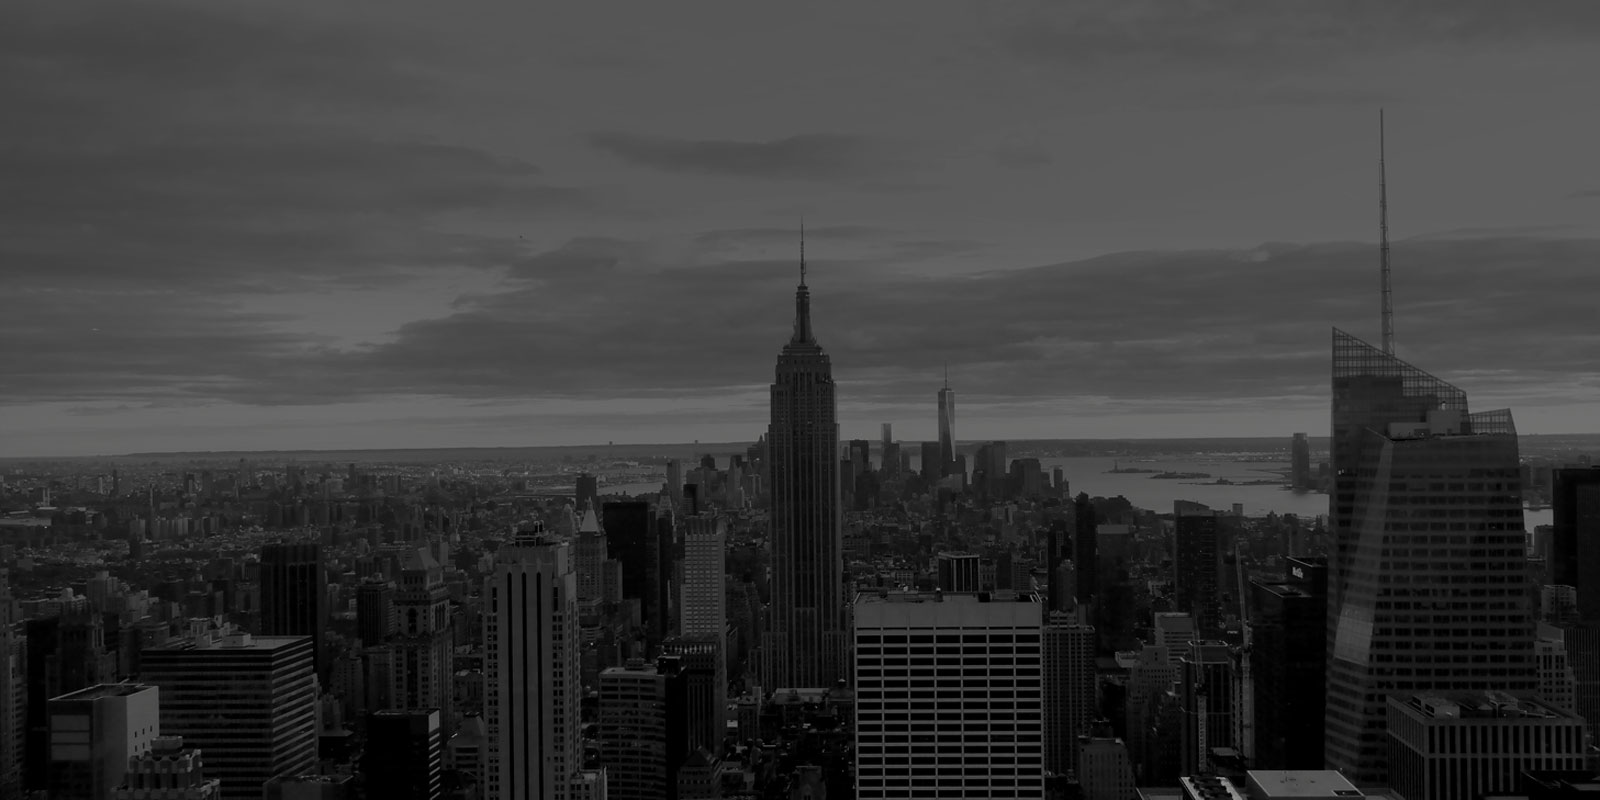
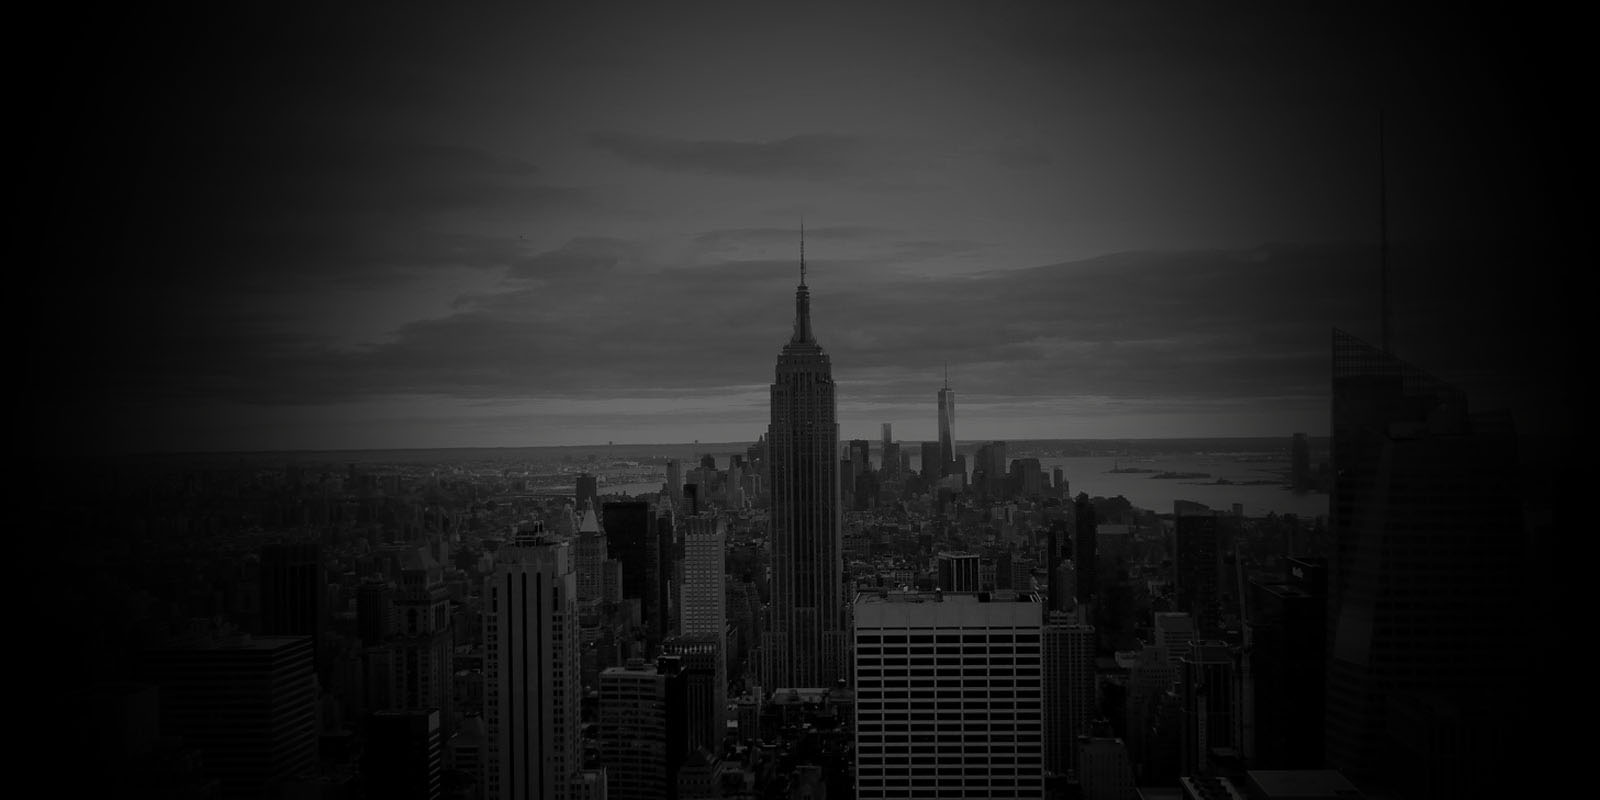
animation and layout fix

diff --git a/css/freelancer.css b/css/freelancer.css
@@ -4,7 +4,7 @@
     padding: 0;
 }
 .recommendation.imageContainer{
-    text-align: right;
+    text-align: center;
 }
 .recommendation.imageContainer img{
     border-radius:58px;
@@ -260,6 +260,8 @@ body {
 }
 p {
     font-size: 20px;
+    transition:all .5s;
+    -webkit-transition:all .5s;
 }
 
 p.small {
@@ -353,7 +355,9 @@ hr.star-light2:after {
     color: #fff;
 
 }
-
+.logo-icons{
+    display: none;
+}
 ul.logo-icons li{margin:0px 20px;}
 
 hr.star-primary {
@@ -613,7 +617,8 @@ section h2 {
 
 section.success {
      color: #fff;   
-     background: url("../img/bg3.jpg") no-repeat fixed center center rgba(0, 0, 0, 0);
+     background: url("../img/bg3.jpg") no-repeat fixed 50% 0% rgba(0, 0, 0, 1);
+     /*background: url("../img/bg3.jpg") no-repeat scroll top center rgba(0, 0, 0, 1)*/
      padding: 100px 0;
 }
 
@@ -930,9 +935,10 @@ opacity: 0;
 }
 
 
-.footerSVG{
-    width: 116px;
+.footerSVG {
     height: 116px;
+    transition: all 0.5s ease 0s;
+    width: 116px;
 }
 
 
@@ -1097,12 +1103,23 @@ opacity: 0;
             padding-top: 75px;
         }
         section.success {
-         background: url("../img/bg3.jpg") no-repeat scroll top center rgba(0, 0, 0, 0)!important;
+         background: url("../img/bg3.jpg") no-repeat scroll rgba(0, 0, 0, 1)!important;
          padding: 50px 0;
         }
         header .intro-text .name,h2.portfolioAnimate,h2.aboutAnimate,.col-lg-12.text-center > h2 {
             font-size: 2.5em;
         }
+        .footerSVG {
+            width: 50px;
+            height: 50px;
+        }
+        .list-inline > li {
+            padding: 0px;
+        }
+        p {
+            font-size: 16px;
+        }
+
     }
     /*tablet*/
     @media (min-width: 768px) and (max-width: 991px) {
@@ -1110,7 +1127,7 @@ opacity: 0;
             font-size: 4em;
         }
         section.success {
-         background: url("../img/bg3.jpg") no-repeat scroll top center rgba(0, 0, 0, 0)!important;
+         background: url("../img/bg3.jpg") no-repeat scroll top center rgba(0, 0, 0, 1)!important;
          padding: 50px 0;
         }
 

diff --git a/index.html b/index.html
@@ -92,7 +92,7 @@
                         
 
                          <div class="col-lg-12 text-center hidden-xs">
-                            <h3 class="aboutAnimate" >Tools that i used for every day work</h3>
+                            <h3 class="aboutAnimate" ></h3>
                          </div> 
                         <div class="col-lg-12 text-center hidden-xs">  
                             <ul class="list-inline logo-icons about text-center">
@@ -181,13 +181,13 @@
     </div><!-- /container -->
 
 <!-- Portfolio Modals -->
-<div class="portfolioContainer">
-    <div class="portfolio-modal modal fade" id="portfolioModal1" tabindex="-1" role="dialog" aria-hidden="true">
-         <div class="modal-content">
+    <div class="portfolioContainer">
+        <div class="portfolio-modal modal fade" id="portfolioModal1" tabindex="-1" role="dialog" aria-hidden="true">
+             <div class="modal-content">
+            </div>
         </div>
-    </div>
-</div>  
-
+    </div>  
+<!-- /Portfolio Modals -->
 
 
 <div class="overlay1 overlay-hugeinc">
@@ -200,7 +200,8 @@
                 </ul>
             </nav>
 </div>
-<!-- /Portfolio Modals -->
+<div class="overlay"></div>
+
 
             <script id="profile-template" type="text/x-handlebars-template">
                 <header id="page-header">

diff --git a/js/main.js b/js/main.js
@@ -33,7 +33,8 @@ var docElem = window.document.documentElement,
 //http://www.behance.net/v2/users/rikirosales?callback=?&api_key=NGCVFuJ8w4IWMyLeaGGyg2X01orRKdq1
 //http://www.behance.net/v2/projects/475570?callback=?&api_key=NGCVFuJ8w4IWMyLeaGGyg2X01orRKdq1
 //http://www.behance.net/v2/users/rikirosales/projects?callback=?&api_key=NGCVFuJ8w4IWMyLeaGGyg2X01orRKdq1
-
+     window.scrollTo(0, 0);
+        
      init();
      loadMoreProject();
      startNAv();
@@ -208,7 +209,9 @@ function loadMoreProject(event){
 
             
             $("body").removeClass("pageLoading");
-             setTimeout( function(){$(".overlay").remove();},4000);
+            $(".overlay").addClass("close")
+             setTimeout( function(){
+                $(".overlay").remove();},4000);
                headerContainer = document.getElementById('headerContainer');
                header = document.getElementById('page-header');
                classie.add(headerContainer,"open");

diff --git a/css/component.css b/css/component.css
@@ -26,7 +26,7 @@ html, body, .perspective {
     #prism-effect #output {
         height: 100%;
         overflow: hidden;
-        position: fixed;
+        position: absolute;
         top: 0;
     }
     .cover{
